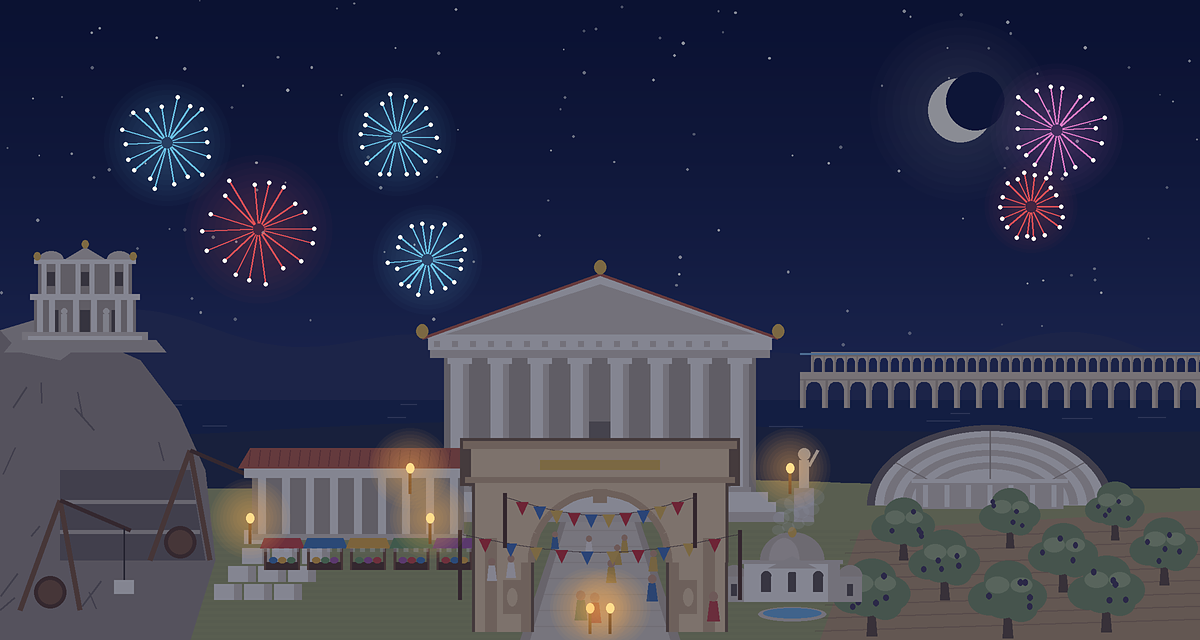
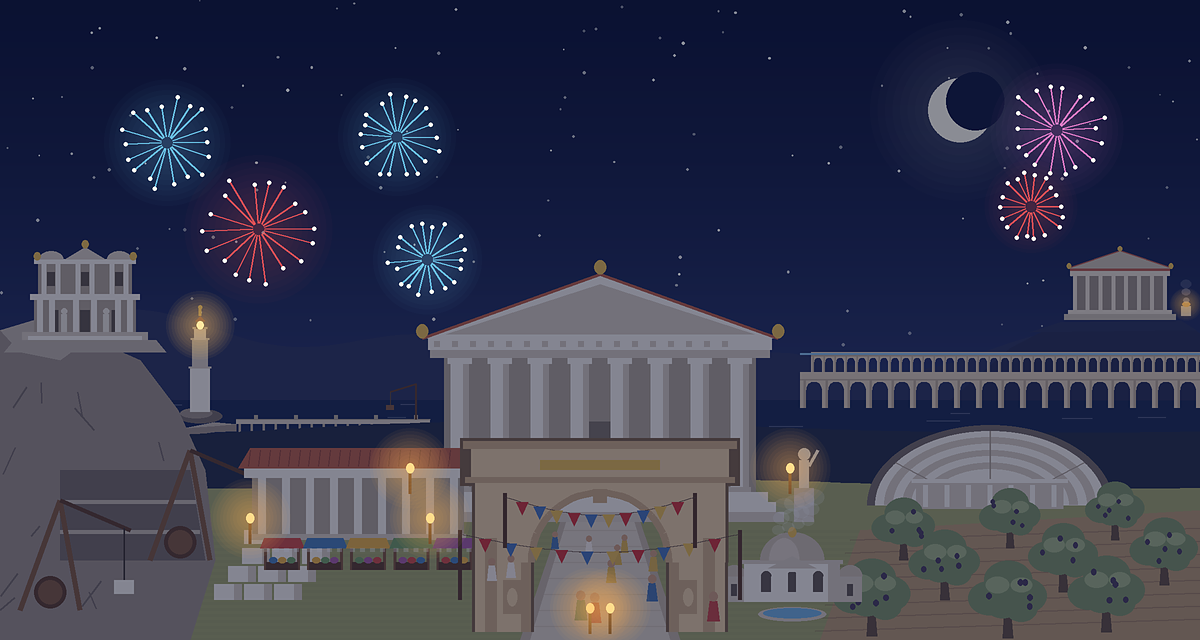
Site ve tanitim: seferler, yeni oyunlar, hikayeli olaylar, Tapinak ve Liman
- Sitede Seferler karti; oyunlar ve olaylar kartlari ile komut listeleri 4 dilde guncel
- Site resimleri Tapinak ve Limanla yeniden cizildi
- Bot listesi metinleri: 11 bina, seferler, yeni oyunlar

Changed region(s): [[0.1233, 0.4375, 0.3392, 0.6875], [0.8942, 0.375, 1.0, 0.5]]

diff --git a/app.js b/app.js
@@ -15,7 +15,7 @@ const EN = {
   tagline: "Turn your Discord server into a living ancient city that your members build together.",
   add: "Add to Discord",
   support: "Support Server",
-  hero_alt: "A Civita city with a temple, agora, amphitheatre, bathhouse, a library on the cliff, an aqueduct and a triumphal arch, decorated with bunting",
+  hero_alt: "A Civita city with a temple, a harbour and lighthouse, agora, amphitheatre, bathhouse, a library on the cliff, an aqueduct and a triumphal arch, decorated with bunting",
   hero_caption: "A real Civita city: every building was raised by its members.",
   how_title: "How does it work?",
   how_lead: "Nobody has to do anything extra: the livelier your server, the faster your city grows.",
@@ -30,7 +30,7 @@ const EN = {
   f_picture_title: "A drawn city",
   f_picture_text: "Type /city to see a picture of your city. The sky follows the time of day: dawn, day, sunset, starry night.",
   f_games_title: "Mini games",
-  f_games_text: "Trivia with 200+ questions, Reflex for quick fingers and Timeline, unlocked by the Library. Once you build an Amphitheatre, winners earn Coins for the city.",
+  f_games_text: "Trivia with 200+ questions, Reflex for quick fingers, the Sphinx's Riddle where solving it before the hint pays more, the push-your-luck Treasure Cave, and Timeline, unlocked by the Library. Once you build an Amphitheatre, winners earn Coins for the city.",
   f_vitality_title: "Vitality",
   f_vitality_text: "How many people contribute each day sets your city's vitality. Lively cities produce more, and their streets fill up.",
   f_titles_title: "Titles and roles",
@@ -40,7 +40,7 @@ const EN = {
   f_festivals_title: "Festivals",
   f_festivals_text: "Fireworks at New Year, blossoms in spring, glowing pumpkins at Halloween: on special days the city is decorated and bonuses arrive.",
   f_events_title: "City events",
-  f_events_text: "A merchant ship docks, a storm approaches, the people ask for a festival. Citizens decide by vote; some choices pay off, others come down to luck.",
+  f_events_text: "A merchant ship docks, a storm approaches, an envoy brings gifts. Citizens decide by vote, and some events turn into stories where your choice comes back hours later: half a treasure map, a shipwreck on the shore, exiles at the gates.",
   f_welcome_title: "Welcome card",
   f_welcome_text: "New members are greeted with a laurel wreath over your server's own city.",
   f_square_title: "City Square",
@@ -90,6 +90,8 @@ const EN = {
   f_premium_more: "See Premium →",
   animated_alt: "An animated festive city: waving flags and citizens walking down the street",
   animated_caption: "Premium: the city comes alive. Citizens walk, flags wave, torches flicker.",
+  f_expeditions_title: "Expeditions",
+  f_expeditions_text: "Your city sends expeditions to the marble quarries of Paros, the market of Ephesus, the ruins of Troy or the Library of Alexandria. Every member who joins the crew grows the loot; pirates, storms and oracles wait on the way. A few hours later the expedition returns with loot and ancient artifacts.",
 };
 
 const DE = {
@@ -101,7 +103,7 @@ const DE = {
   tagline: "Verwandle deinen Discord-Server in eine lebendige antike Stadt, die eure Mitglieder gemeinsam bauen.",
   add: "Zu Discord hinzufügen",
   support: "Support-Server",
-  hero_alt: "Eine Civita-Stadt mit Tempel, Agora, Amphitheater, Badehaus, einer Bibliothek auf der Klippe, einem Aquädukt und einem Triumphbogen, mit Wimpeln geschmückt",
+  hero_alt: "Eine Civita-Stadt mit Tempel, Hafen und Leuchtturm, Agora, Amphitheater, Badehaus, einer Bibliothek auf der Klippe, einem Aquädukt und einem Triumphbogen, mit Wimpeln geschmückt",
   hero_caption: "Eine echte Civita-Stadt: Jedes Gebäude haben die Mitglieder errichtet.",
   how_title: "Wie funktioniert es?",
   how_lead: "Niemand muss etwas extra tun: Je lebendiger euer Server, desto schneller wächst eure Stadt.",
@@ -116,7 +118,7 @@ const DE = {
   f_picture_title: "Eine gezeichnete Stadt",
   f_picture_text: "Gib /stadt ein und sieh dir das Bild deiner Stadt an. Der Himmel folgt der Tageszeit: Morgendämmerung, Tag, Sonnenuntergang, Sternennacht.",
   f_games_title: "Minispiele",
-  f_games_text: "Ein Quiz mit über 200 Fragen, Reflex für schnelle Finger und die Zeitleiste, die mit der Bibliothek freigeschaltet wird. Sobald ihr ein Amphitheater baut, verdienen Gewinner Münzen für die Stadt.",
+  f_games_text: "Ein Quiz mit über 200 Fragen, Reflex für schnelle Finger, das Rätsel der Sphinx (wer vor dem Hinweis löst, bekommt mehr), die Schatzhöhle, in der du dein Glück herausforderst, und die Zeitleiste, die mit der Bibliothek freigeschaltet wird. Sobald ihr ein Amphitheater baut, verdienen Gewinner Münzen für die Stadt.",
   f_vitality_title: "Lebendigkeit",
   f_vitality_text: "Wie viele Leute jeden Tag beitragen, bestimmt die Lebendigkeit eurer Stadt. Lebendige Städte produzieren mehr, und ihre Straßen füllen sich.",
   f_titles_title: "Titel und Rollen",
@@ -126,7 +128,7 @@ const DE = {
   f_festivals_title: "Feste",
   f_festivals_text: "Feuerwerk zu Neujahr, Blüten im Frühling, leuchtende Kürbisse zu Halloween: An besonderen Tagen wird die Stadt geschmückt und es gibt Boni.",
   f_events_title: "Stadtereignisse",
-  f_events_text: "Ein Handelsschiff legt an, ein Sturm zieht auf, das Volk will ein Fest. Die Bürger entscheiden per Abstimmung; manche Wahl zahlt sich aus, manche hängt vom Glück ab.",
+  f_events_text: "Ein Handelsschiff legt an, ein Sturm zieht auf, ein Gesandter bringt Geschenke. Die Bürger entscheiden per Abstimmung, und manche Ereignisse werden zu Geschichten, in denen eure Wahl Stunden später zurückkehrt: eine halbe Schatzkarte, ein Wrack an der Küste, Vertriebene am Tor.",
   f_welcome_title: "Willkommenskarte",
   f_welcome_text: "Neue Mitglieder werden mit einem Lorbeerkranz über eurer eigenen Stadt begrüßt.",
   f_square_title: "Stadtplatz",
@@ -176,6 +178,8 @@ const DE = {
   f_premium_more: "Premium ansehen →",
   animated_alt: "Eine animierte, festlich geschmückte Stadt: wehende Fahnen und Bürger auf der Straße",
   animated_caption: "Premium: die Stadt wird lebendig. Bürger gehen, Fahnen wehen, Fackeln flackern.",
+  f_expeditions_title: "Expeditionen",
+  f_expeditions_text: "Eure Stadt schickt Expeditionen zu den Marmorbrüchen von Paros, zum Markt von Ephesos, zu den Ruinen von Troja oder zur Bibliothek von Alexandria. Jedes Mitglied, das anheuert, vergrößert die Beute; unterwegs warten Piraten, Stürme und Orakel. Nach einigen Stunden kehrt die Expedition mit Beute und antiken Fundstücken zurück.",
 };
 
 const ES = {
@@ -187,7 +191,7 @@ const ES = {
   tagline: "Convierte tu servidor de Discord en una ciudad antigua viva que sus miembros construyen juntos.",
   add: "Añadir a Discord",
   support: "Servidor de soporte",
-  hero_alt: "Una ciudad de Civita con templo, ágora, anfiteatro, termas, una biblioteca en el acantilado, un acueducto y un arco de triunfo, decorada con banderines",
+  hero_alt: "Una ciudad de Civita con templo, puerto y faro, ágora, anfiteatro, termas, una biblioteca en el acantilado, un acueducto y un arco de triunfo, decorada con banderines",
   hero_caption: "Una ciudad real de Civita: cada edificio lo levantaron sus miembros.",
   how_title: "¿Cómo funciona?",
   how_lead: "Nadie tiene que hacer nada extra: cuanto más activo esté vuestro servidor, más rápido crece la ciudad.",
@@ -202,7 +206,7 @@ const ES = {
   f_picture_title: "Una ciudad dibujada",
   f_picture_text: "Escribe /ciudad para ver la imagen de tu ciudad. El cielo sigue la hora del día: amanecer, día, atardecer, noche estrellada.",
   f_games_title: "Minijuegos",
-  f_games_text: "Trivia con más de 200 preguntas, Reflejos para dedos rápidos y Cronología, que se desbloquea con la Biblioteca. Cuando construyáis un Anfiteatro, los ganadores consiguen Monedas para la ciudad.",
+  f_games_text: "Trivia con más de 200 preguntas, Reflejos para dedos rápidos, el acertijo de la Esfinge (acertar antes de la pista da más puntos), la Cueva del tesoro para tentar a la suerte y Cronología, que se desbloquea con la Biblioteca. Cuando construyáis un Anfiteatro, los ganadores consiguen Monedas para la ciudad.",
   f_vitality_title: "Vitalidad",
   f_vitality_text: "Cuántas personas aportan cada día marca la vitalidad de la ciudad. Las ciudades vivas producen más y sus calles se llenan.",
   f_titles_title: "Títulos y roles",
@@ -212,7 +216,7 @@ const ES = {
   f_festivals_title: "Festivales",
   f_festivals_text: "Fuegos artificiales en Año Nuevo, flores en primavera, calabazas iluminadas en Halloween: en días especiales la ciudad se decora y llegan bonificaciones.",
   f_events_title: "Eventos de la ciudad",
-  f_events_text: "Atraca un barco mercante, se acerca una tormenta, el pueblo pide una fiesta. Los ciudadanos deciden por votación; algunas decisiones salen bien y otras dependen de la suerte.",
+  f_events_text: "Atraca un barco mercante, se acerca una tormenta, un enviado trae regalos. Los ciudadanos deciden por votación, y algunos eventos se convierten en historias donde vuestra decisión vuelve horas después: medio mapa del tesoro, un naufragio en la costa, exiliados a las puertas.",
   f_welcome_title: "Tarjeta de bienvenida",
   f_welcome_text: "Los nuevos miembros reciben una corona de laurel sobre la propia ciudad de vuestro servidor.",
   f_square_title: "Plaza de la ciudad",
@@ -262,6 +266,8 @@ const ES = {
   f_premium_more: "Ver Premium →",
   animated_alt: "Una ciudad animada y en fiestas: banderas ondeando y ciudadanos caminando por la calle",
   animated_caption: "Premium: la ciudad cobra vida. Los ciudadanos caminan, las banderas ondean, las antorchas parpadean.",
+  f_expeditions_title: "Expediciones",
+  f_expeditions_text: "Tu ciudad envía expediciones a las canteras de mármol de Paros, al mercado de Éfeso, a las ruinas de Troya o a la Biblioteca de Alejandría. Cada miembro que se une a la tripulación aumenta el botín; en el camino esperan piratas, tormentas y oráculos. Unas horas después la expedición vuelve con botín y objetos antiguos.",
 };
 
 const COMMANDS = {
@@ -279,9 +285,12 @@ const COMMANDS = {
       ["/festivaller", "Festival takvimi"],
       ["/gazete", "Haftalık şehir gazetesi"],
       ["/emirler", "Günün Meclis Emirleri"],
+      ["/sefer", "Antik bir yere sefer gönder, mürettebata katıl"],
       ["/oyun bilgi", "Bilgi Yarışması"],
       ["/oyun refleks", "Refleks oyunu"],
       ["/oyun tarih-sırası", "Tarih Sırası (Kütüphane gerekir)"],
+      ["/oyun bilmece", "Sfenks'in Bilmecesi"],
+      ["/oyun mağara", "Hazine Mağarası"],
       ["/davet", "Civita'yı kendi sunucuna ekle"],
       ["/oy-ver", "Top.gg'de oy ver, şehrine Sikke kazandır"],
     ]],
@@ -315,9 +324,12 @@ const COMMANDS = {
       ["/festivals", "Festival calendar"],
       ["/gazette", "Weekly city gazette"],
       ["/orders", "Today's Council Orders"],
+      ["/expedition", "Send an expedition, join the crew"],
       ["/game trivia", "Trivia"],
       ["/game reflex", "Reflex game"],
       ["/game timeline", "Timeline (needs a Library)"],
+      ["/game riddle", "The Sphinx's Riddle"],
+      ["/game cave", "Treasure Cave"],
       ["/invite", "Add Civita to your own server"],
       ["/vote", "Vote on Top.gg and earn Coins for your city"],
     ]],
@@ -351,9 +363,12 @@ const COMMANDS = {
       ["/feste", "Festkalender"],
       ["/zeitung", "Wöchentliche Stadtzeitung"],
       ["/aufträge", "Die heutigen Ratsaufträge"],
+      ["/expedition", "Expedition losschicken, anheuern"],
       ["/spiel quiz", "Quiz"],
       ["/spiel reflex", "Reaktionsspiel"],
       ["/spiel zeitleiste", "Zeitleiste (braucht eine Bibliothek)"],
+      ["/spiel rätsel", "Das Rätsel der Sphinx"],
+      ["/spiel höhle", "Die Schatzhöhle"],
       ["/einladen", "Civita zu deinem eigenen Server hinzufügen"],
       ["/abstimmen", "Auf Top.gg abstimmen und Münzen für deine Stadt verdienen"],
     ]],
@@ -387,9 +402,12 @@ const COMMANDS = {
       ["/festivales", "Calendario de festivales"],
       ["/gaceta", "Gaceta semanal de la ciudad"],
       ["/órdenes", "Las órdenes del Consejo de hoy"],
+      ["/expedicion", "Envía una expedición, únete a la tripulación"],
       ["/juego trivia", "Trivia"],
       ["/juego reflejos", "Juego de reflejos"],
       ["/juego cronología", "Cronología (requiere una Biblioteca)"],
+      ["/juego acertijo", "El acertijo de la Esfinge"],
+      ["/juego cueva", "La cueva del tesoro"],
       ["/invitar", "Añade Civita a tu propio servidor"],
       ["/votar", "Vota en Top.gg y gana Monedas para tu ciudad"],
     ]],

diff --git a/index.html b/index.html
@@ -41,7 +41,7 @@
         <a class="btn btn-ghost support" href="#" data-i18n="support">Destek Sunucusu</a>
       </div>
       <figure>
-        <img class="shot" src="img/hero.png" width="1200" height="640" data-i18n-alt="hero_alt" alt="Tapınağı, agorası, amfitiyatrosu, hamamı, kayalık üstündeki kütüphanesi, su kemeri ve zafer takı olan, bayraklarla süslenmiş bir Civita şehri">
+        <img class="shot" src="img/hero.png" width="1200" height="640" data-i18n-alt="hero_alt" alt="Tapınağı, limanı ve deniz feneri, agorası, amfitiyatrosu, hamamı, kayalık üstündeki kütüphanesi, su kemeri ve zafer takı olan, bayraklarla süslenmiş bir Civita şehri">
         <figcaption class="caption" data-i18n="hero_caption">Gerçek bir Civita şehri: her bina, sunucu üyelerinin emeğiyle yükseldi.</figcaption>
       </figure>
     </div>
@@ -65,12 +65,13 @@
       <p class="section-lead" data-i18n="features_lead">Bir şehir oyunu, eğlenceli mini oyunlar ve ihtiyacınız olan sunucu araçları, tek botta.</p>
       <div class="features">
         <div class="feature"><div class="icon">🖼</div><h3 data-i18n="f_picture_title">Çizilen şehir</h3><p data-i18n="f_picture_text">/şehir yazın, şehrinizin resmini görün. Gökyüzü saatine göre değişir: şafak, gündüz, gün batımı, yıldızlı gece.</p></div>
-        <div class="feature"><div class="icon">🎭</div><h3 data-i18n="f_games_title">Mini oyunlar</h3><p data-i18n="f_games_text">200'ü aşkın sorulu Bilgi Yarışması, hızlı parmaklar için Refleks ve Kütüphane'yle açılan Tarih Sırası. Amfitiyatro kurulunca kazananlar şehre Sikke kazandırır.</p></div>
+        <div class="feature"><div class="icon">🎭</div><h3 data-i18n="f_games_title">Mini oyunlar</h3><p data-i18n="f_games_text">200'ü aşkın sorulu Bilgi Yarışması, hızlı parmaklar için Refleks, ipucundan önce bilenin kazandığı Sfenks'in Bilmecesi, şansını zorladığın Hazine Mağarası ve Kütüphane'yle açılan Tarih Sırası. Amfitiyatro kurulunca kazananlar şehre Sikke kazandırır.</p></div>
         <div class="feature"><div class="icon">❤</div><h3 data-i18n="f_vitality_title">Canlılık</h3><p data-i18n="f_vitality_text">Her gün katkı veren kişi sayısı şehrin canlılığını belirler. Canlı şehirler daha hızlı üretir; sokakları kalabalıklaşır.</p></div>
         <div class="feature"><div class="icon">🏅</div><h3 data-i18n="f_titles_title">Unvanlar ve roller</h3><p data-i18n="f_titles_text">Misafirden Meclis Üyesi'ne altı unvan. İsterseniz her unvana bir Discord rolü bağlayın, Civita kendisi versin.</p></div>
         <div class="feature"><div class="icon">🌍</div><h3 data-i18n="f_world_title">Dünya ve kardeş şehirler</h3><p data-i18n="f_world_text">İsteyen şehirler prestijleriyle yarışır. Başka sunucularla kardeş şehir olun: canlı kardeşler üretime bonus katar, birbirinize kervan gönderirsiniz.</p></div>
         <div class="feature"><div class="icon">🎊</div><h3 data-i18n="f_festivals_title">Festivaller</h3><p data-i18n="f_festivals_text">Yılbaşında havai fişekler, baharda çiçekler; özel günlerde şehir süslenir ve bonuslar gelir.</p></div>
-        <div class="feature"><div class="icon">🎲</div><h3 data-i18n="f_events_title">Şehir olayları</h3><p data-i18n="f_events_text">Limana bir tüccar gemisi yanaşır, bir fırtına yaklaşır, halk şenlik ister. Vatandaşlar oyla karar verir; kimi seçim kazandırır, kimi şansa kalır.</p></div>
+        <div class="feature"><div class="icon">🎲</div><h3 data-i18n="f_events_title">Şehir olayları</h3><p data-i18n="f_events_text">Limana bir tüccar gemisi yanaşır, bir fırtına yaklaşır, bir elçi hediye getirir. Vatandaşlar oyla karar verir; bazı olaylar hikâyeye dönüşür ve seçiminiz saatler sonra geri döner: yarım bir hazine haritası, kıyıya vuran bir batık, kapıdaki sürgünler.</p></div>
+        <div class="feature"><div class="icon">⛵</div><h3 data-i18n="f_expeditions_title">Seferler</h3><p data-i18n="f_expeditions_text">Şehir Paros'un mermer ocaklarına, Efes çarşısına, Truva harabelerine ya da İskenderiye Kütüphanesi'ne sefer gönderir. Mürettebata katılan her kişi ganimeti büyütür; yolda korsanlar, fırtınalar ve kâhinler beklenir. Sefer birkaç saat sonra ganimet ve antik eserlerle döner.</p></div>
         <div class="feature"><div class="icon">👋</div><h3 data-i18n="f_welcome_title">Hoş geldin kartı</h3><p data-i18n="f_welcome_text">Yeni üyeler, sunucunuzun kendi şehrinin üzerinde defne çelengiyle karşılanır.</p></div>
         <div class="feature"><div class="icon">🏛</div><h3 data-i18n="f_square_title">Şehir Meydanı</h3><p data-i18n="f_square_text">Komut yazmaya gerek yok: kanala sabitlenen düğmeli panelden şehrinizi, profilinizi, günün emirlerini ve başarımlarınızı görün, tek tıkla bilgi yarışması başlatın.</p></div>
         <div class="feature"><div class="icon">🏆</div><h3 data-i18n="f_achievements_title">Başarımlar ve günlük emirler</h3><p data-i18n="f_achievements_text">Üyelere rozetler (bir haftalık seri, arena şampiyonu…), şehre başarımlar. Meclis her gün sunucunun büyüklüğüne göre üç ortak hedef koyar; tamamlayınca hazine dolar.</p></div>
